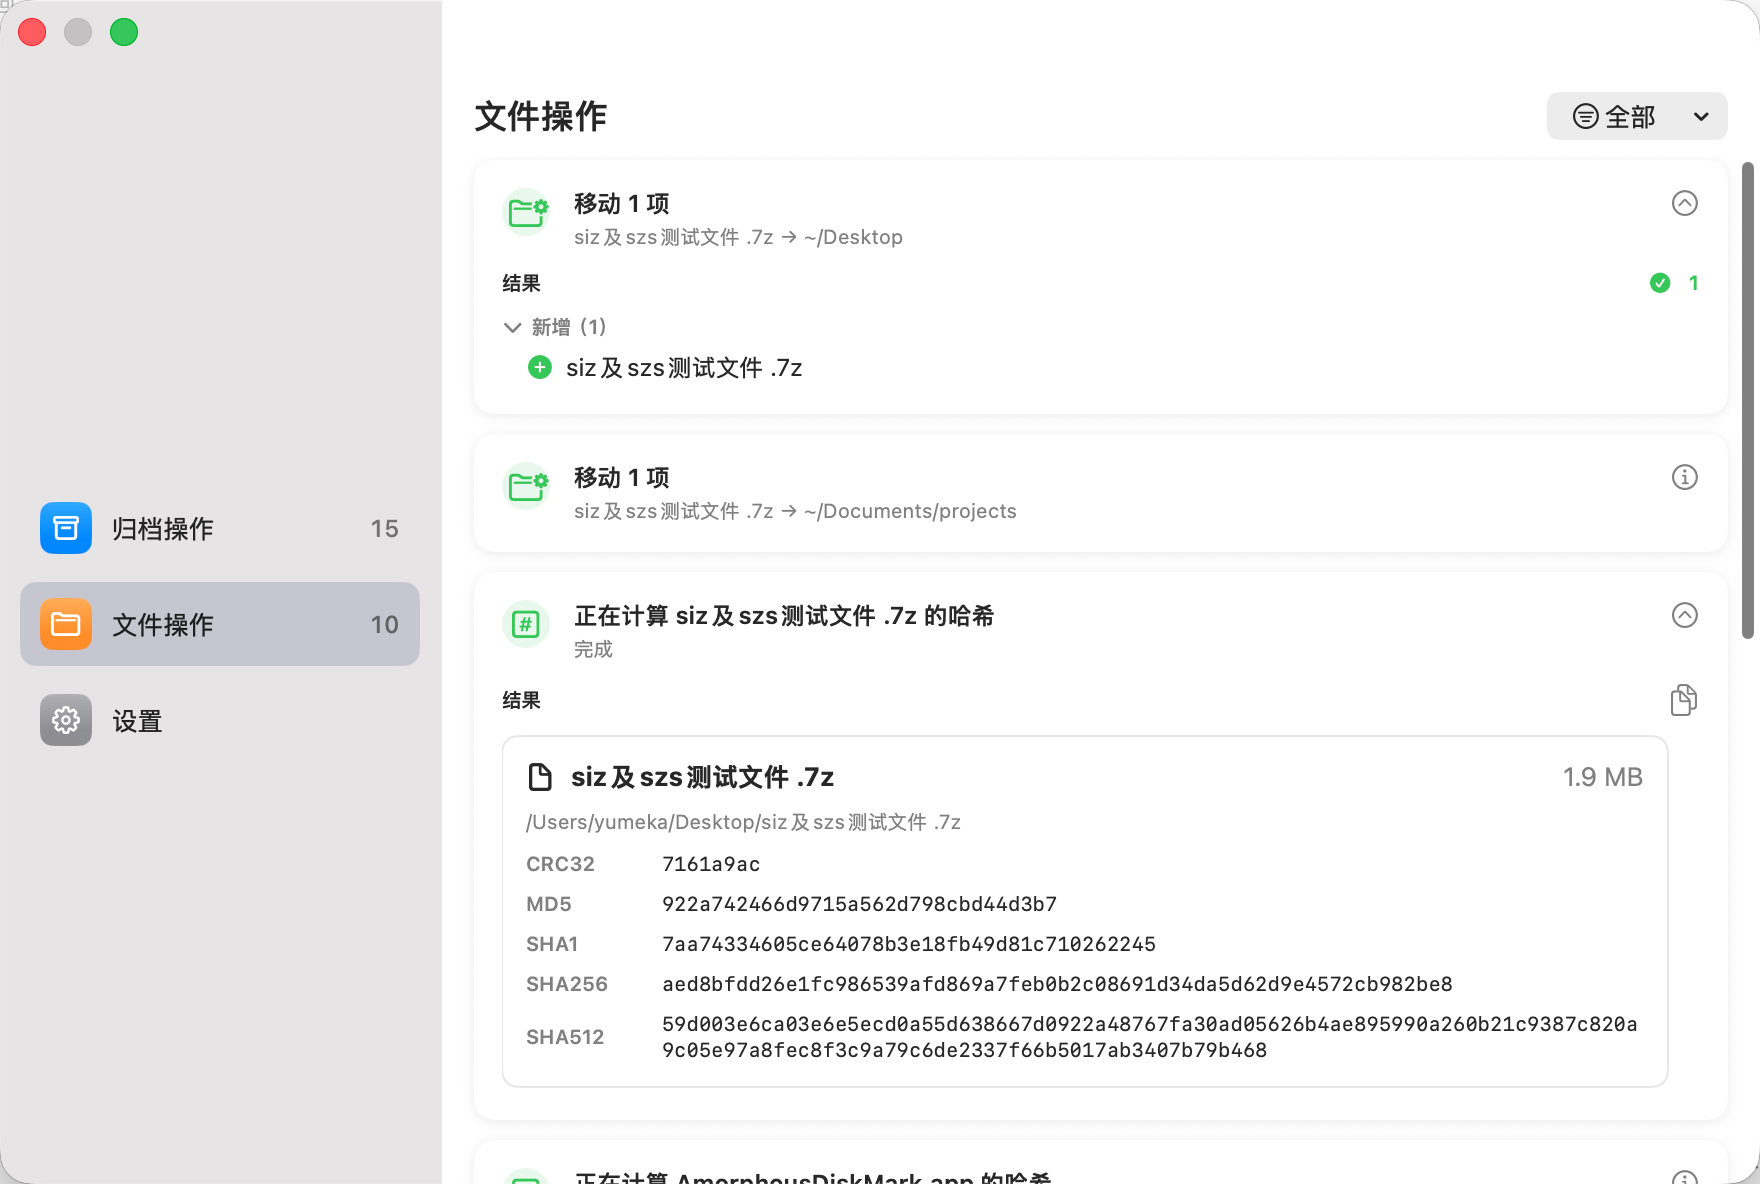
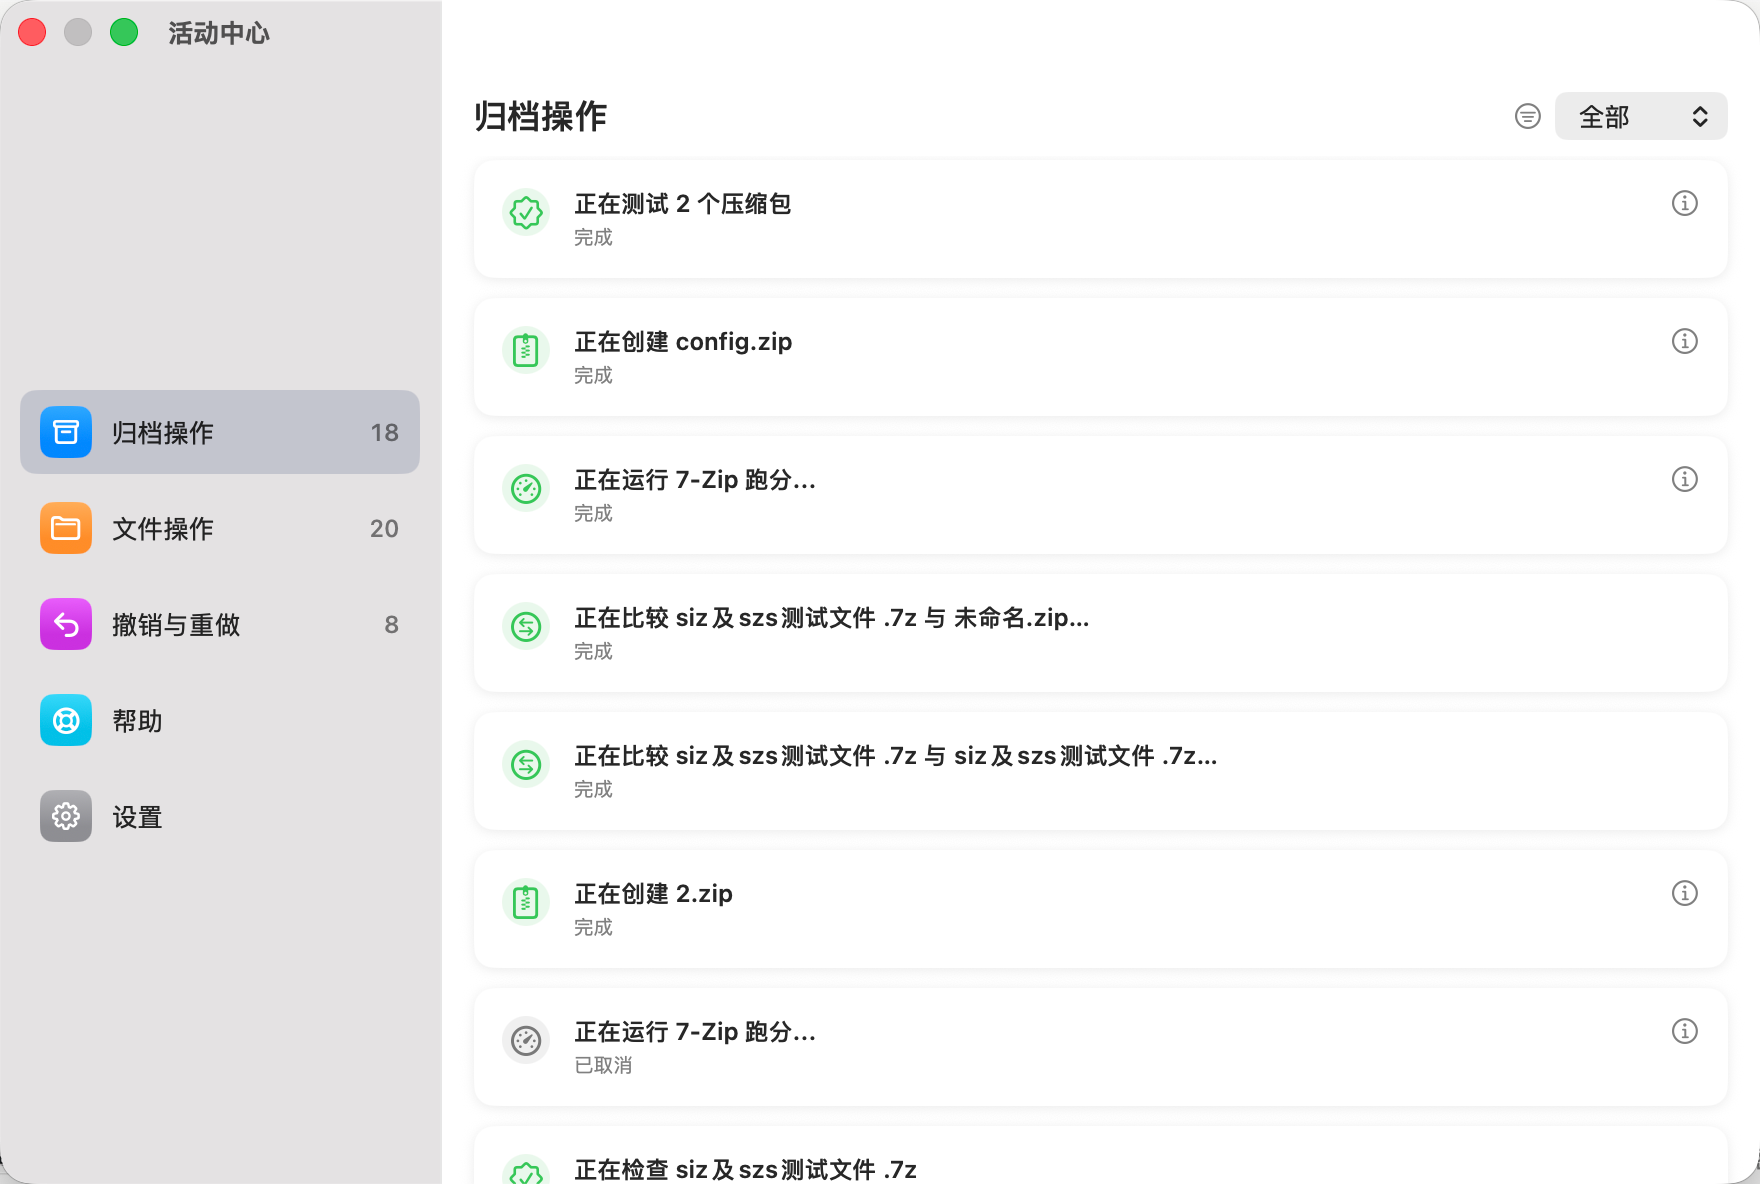
feat: unified write-capability gate explains read-only archives (0.4.3 #13)
New ArchiveWriteRestriction (Core) gives the reason an archive can't be
modified: read-only format, temporary extracted .siz/.szs/.gpg copy,
nested archive, or missing backend. supportsEntryUpdate now derives from
it (single source of truth); ArchiveBrowserModel.archiveWriteRestriction
is the explained twin of canDropIntoOpenArchive. The status bar shows a
Read-Only capsule with the full reason as its tooltip whenever the open
archive isn't writable, and the blank-area context menu shows a disabled
"Archive Comment (ZIP Only)" item on writable non-ZIP archives instead
of hiding the entry wordlessly. Behavior of the gates is unchanged.
+1 core test (restriction reasons, case-insensitive extensions).

diff --git a/SimpleZip/Core/ArchiveEntryUpdate.swift b/SimpleZip/Core/ArchiveEntryUpdate.swift
@@ -11,6 +11,19 @@
 
 import Foundation
 
+/// 写操作不可用的统一原因(0.4.3 #13 可写能力边界门控)——
+/// 所有写入口(拖入/重命名/删除/清垃圾/注释/新建)共享同一份解释,不再「为什么这能那不能」。
+public enum ArchiveWriteRestriction: Equatable, Sendable {
+    /// 7-Zip 后端不可用,任何归档都改不了。
+    case backendUnavailable
+    /// 只读格式(7zz 不能写:tar 系 / rar / dmg / xip / gpg 容器 / 单文件压缩等)。
+    case readOnlyFormat(fileExtension: String)
+    /// 当前浏览的是 .siz/.szs/.gpg 解出来的临时副本——改写不会落回原容器,还会破坏签名/加密。
+    case temporaryExtractedCopy
+    /// 嵌套归档(包中包)以只读临时副本打开。
+    case nestedArchive
+}
+
 /// 要加入 / 替换进归档的一个条目:磁盘上的真实文件 + 它在归档内的目标相对路径。
 public struct ArchiveEntryAddition: Hashable {
     /// 磁盘上的源文件(拖入的文件 / 加密临时卷里编辑过的副本)。
@@ -58,12 +71,18 @@ extension ArchiveService {
     /// 一个归档是否可被 SimpleZip 安全地「加 / 替换条目」—— 仅 **zip / 7z**(7zz 可写)且 7zz 可用。
     /// TAR 系 / DMG / RAR(7zz 不可写)/ GPG 容器 都不开放(返回 false),调用方据此决定是否给「拖入 / 写回」入口。
     public static func supportsEntryUpdate(_ archiveURL: URL) -> Bool {
-        guard SevenZipBackend.isAvailable() else { return false }
-        switch archiveURL.pathExtension.lowercased() {
+        entryUpdateRestriction(forExtension: archiveURL.pathExtension) == nil
+    }
+
+    /// `supportsEntryUpdate` 的**解释版**(0.4.3 #13 可写能力统一门控):不可写时返回具体原因,
+    /// 所有写入口共享这一份解释,不再各自静默隐藏。可写返回 nil。
+    public static func entryUpdateRestriction(forExtension fileExtension: String) -> ArchiveWriteRestriction? {
+        guard SevenZipBackend.isAvailable() else { return .backendUnavailable }
+        switch fileExtension.lowercased() {
         case "zip", "7z":
-            return true
+            return nil
         default:
-            return false
+            return .readOnlyFormat(fileExtension: fileExtension.lowercased())
         }
     }
 

diff --git a/SimpleZip/Features/ArchiveBrowser/ArchiveBrowserModel/ArchiveBrowserModel+CreateExtract.swift b/SimpleZip/Features/ArchiveBrowser/ArchiveBrowserModel/ArchiveBrowserModel+CreateExtract.swift
@@ -478,15 +478,23 @@ extension ArchiveBrowserModel {
 
     // MARK: - 拖入文件加进打开的压缩包（#109，走活动中心 + 安全写回）
 
+    /// 0.4.3 #13:当前打开归档的**写入受限原因**(nil = 可写)。`canDropIntoOpenArchive` 的解释版——
+    /// 状态栏只读徽章、各写入口的说明共用这一份原因,统一回答「为什么这个包不能编辑」。
+    /// 非归档模式 / 归档文件已消失返回 nil(那是另一类问题,不属于能力门控)。
+    var archiveWriteRestriction: ArchiveWriteRestriction? {
+        guard case .archive(let url) = mode else { return nil }
+        if archiveDisplayOverride != nil { return .temporaryExtractedCopy }
+        if !nestedArchiveReturnStack.isEmpty { return .nestedArchive }
+        guard fileManager.fileExists(atPath: url.path) else { return nil }
+        return ArchiveService.entryUpdateRestriction(forExtension: url.pathExtension)
+    }
+
     /// 当前是否允许把外部文件拖进打开的压缩包：必须是**真实顶层** zip/7z（非嵌套 / 非 `.siz`·`.gpg` 解出来的临时包），
-    /// 否则写回 `/tmp` 临时包毫无意义、还可能误导。`archiveDisplayOverride != nil` 即代表当前看的是临时/虚拟链 → 不允许。
+    /// 否则写回 `/tmp` 临时包毫无意义、还可能误导。判定收敛到 `archiveWriteRestriction`(#13 单一来源)。
     var canDropIntoOpenArchive: Bool {
         guard case .archive(let url) = mode,
-              archiveDisplayOverride == nil,
-              nestedArchiveReturnStack.isEmpty,
-              fileManager.fileExists(atPath: url.path),
-              ArchiveService.supportsEntryUpdate(url) else { return false }
-        return true
+              fileManager.fileExists(atPath: url.path) else { return false }
+        return archiveWriteRestriction == nil
     }
 
     // MARK: - 归档级注释编辑（0.4.2，仅 zip —— EOCD 原生改写）

diff --git a/SimpleZip/Features/ArchiveBrowser/StatusBar.swift b/SimpleZip/Features/ArchiveBrowser/StatusBar.swift
@@ -68,6 +68,16 @@ struct StatusBar: View {
                 }
                 .buttonStyle(.borderless)
             }
+            // 0.4.3 #13:打开的归档不可改写时,状态栏挂「只读」徽章,悬停给统一解释
+            // (只读格式 / 临时解包副本 / 嵌套归档 / 后端缺失)—— 写入口不再静默消失得不明不白。
+            if let restriction = model.archiveWriteRestriction {
+                Label(L10n.text("status.readOnly"), systemImage: "lock.fill")
+                    .foregroundStyle(.secondary)
+                    .padding(.horizontal, 7)
+                    .padding(.vertical, 2)
+                    .background(Capsule().fill(Color.primary.opacity(0.08)))
+                    .help(Self.restrictionExplanation(restriction))
+            }
             Text(L10n.text("status.backend"))
                 .foregroundStyle(.secondary)
         }
@@ -76,6 +86,20 @@ struct StatusBar: View {
         .padding(.vertical, 7)
         // 跟地址栏同一 .bar 材质 —— 上下两条工具条一个质感（0.3.3 UI 现代化）。
         .background(.bar)
+    }
+
+    /// 写入受限原因 → 用户可读解释(#13 统一文案,en+zh)。
+    static func restrictionExplanation(_ restriction: ArchiveWriteRestriction) -> String {
+        switch restriction {
+        case .backendUnavailable:
+            return L10n.text("writeGate.backendUnavailable")
+        case .readOnlyFormat(let fileExtension):
+            return L10n.format("writeGate.readOnlyFormat", fileExtension)
+        case .temporaryExtractedCopy:
+            return L10n.text("writeGate.temporaryCopy")
+        case .nestedArchive:
+            return L10n.text("writeGate.nestedArchive")
+        }
     }
 
     private var legacyProgressView: some View {

diff --git a/Tests/SimpleZipCoreTests/ArchiveEntryUpdateTests.swift b/Tests/SimpleZipCoreTests/ArchiveEntryUpdateTests.swift
@@ -222,6 +222,18 @@ struct ArchiveEntryUpdateTests {
         #expect(!ArchiveService.supportsEntryUpdate(URL(fileURLWithPath: "/tmp/a.tar.gz")))
         #expect(!ArchiveService.supportsEntryUpdate(URL(fileURLWithPath: "/tmp/a.rar")))
     }
+
+    /// 0.4.3 #13:supportsEntryUpdate 的解释版 —— 可写格式返回 nil,只读格式给出带扩展名的具体原因
+    /// (大小写归一)。后端缺失分支(backendUnavailable)无法在装有 7zz 的测试环境里直接构造,不在此覆盖。
+    @Test func entryUpdateRestrictionExplainsReadOnlyFormats() {
+        #expect(ArchiveService.entryUpdateRestriction(forExtension: "zip") == nil)
+        #expect(ArchiveService.entryUpdateRestriction(forExtension: "7z") == nil)
+        #expect(ArchiveService.entryUpdateRestriction(forExtension: "ZIP") == nil)
+        #expect(ArchiveService.entryUpdateRestriction(forExtension: "rar") == .readOnlyFormat(fileExtension: "rar"))
+        #expect(ArchiveService.entryUpdateRestriction(forExtension: "TAR") == .readOnlyFormat(fileExtension: "tar"))
+        #expect(ArchiveService.entryUpdateRestriction(forExtension: "dmg") == .readOnlyFormat(fileExtension: "dmg"))
+        #expect(ArchiveService.entryUpdateRestriction(forExtension: "siz") == .readOnlyFormat(fileExtension: "siz"))
+    }
 }
 
 /// 0.4.2 #11:批量重命名计划引擎(纯名字变换)。

diff --git a/SimpleZip/Features/ArchiveBrowser/ArchiveTable.swift b/SimpleZip/Features/ArchiveBrowser/ArchiveTable.swift
@@ -504,6 +504,11 @@ private struct ArchiveNSOutlineView: NSViewRepresentable {
             // 0.4.2：zip 归档级注释编辑（EOCD 原生改写）。没有注释时这是唯一的「添加注释」入口。
             if model.canEditArchiveComment {
                 menu.addItem(menuItem(L10n.text("archive.comment.menu"), systemImage: "text.bubble", action: #selector(editArchiveComment)))
+            } else if model.canDropIntoOpenArchive {
+                // 0.4.3 #13:可写包但非 zip —— 显式解释「注释仅 ZIP 支持」,不再静默消失留人疑惑。
+                let unavailable = NSMenuItem(title: L10n.text("archive.comment.zipOnly.menu"), action: nil, keyEquivalent: "")
+                unavailable.isEnabled = false
+                menu.addItem(unavailable)
             }
             // 0.4.2 #24：包内重复文件检测（只读分析，任何归档都可用）。
             menu.addItem(menuItem(L10n.text("duplicates.menu"), systemImage: "doc.on.doc", action: #selector(findDuplicateFiles)))

diff --git a/CHANGELOG.md b/CHANGELOG.md
@@ -4,6 +4,7 @@
 
 ## 0.4.3 (unreleased)
 
+- **New: a unified explanation for why an archive can't be edited.** Write entry points used to vanish silently — now one capability gate answers "why can this archive do that but not this": when the open archive isn't writable, the status bar shows a Read-Only badge whose tooltip spells out the exact reason (read-only format like tar/rar/dmg with a convert-to-ZIP/7z hint, a temporary extracted `.siz`/`.szs`/`.gpg` copy where edits would break the signature, a nested archive opened as a read-only copy, or a missing 7-Zip backend). The blank-area context menu also stops hiding Archive Comment wordlessly on writable non-ZIP archives — it shows a disabled "Archive Comment (ZIP Only)" entry instead. All write gates now flow from a single source of truth in Core, with the existing behavior unchanged.
 - **UI: icon tiles get exact glyph centering; dialog drawers get the second-level indent.** Every colored icon tile outside Settings (dialog heroes, drawer tiles, sidebar rows, the floating auto-extract window, the hash-results header, the conflict warning, the `.siz`/`.szs` signature seals) now centers its symbol with the shape-plus-overlay structure, so wide glyphs no longer sit visibly off-center. Dialog drawer contents pick up the same second-level indent as the settings drawers. Color rules stay as designed: window-level tiles keep their gradients; desaturation remains exclusive to the content side of sidebar windows.
 - **UI: every dialog and panel in the app adopts the new design language.** The full sweep beyond Settings: split, convert, batch rename, permissions editor, comment editor, GPG encrypt, create-SZS, conflict dialogs, the report sheets (hash, diff, security, duplicates, release inspection), both signature sheets, the benchmark and RAR-install sheets, the Activity Center (tinted settings rows, a native filter popup instead of a menu-button), the floating auto-extract/auto-create windows, the status bar and the remaining welcome-assistant pages. Concretely: every selectable option visible without opening a drawer wears a colored tile (full saturation in dialogs — desaturation stays exclusive to sidebar windows); non-selectable info rows stay deliberately low-key; checkboxes never sit left of their text; every button carries a monochrome outline icon, with Cancel uniformly ✕ and main actions echoing each dialog's hero symbol; text inputs get a visible border on white cards.
 - **UI: the create and extract dialogs join the colored-tile design.** First-level form rows (File Name, Save To, Format, Compression Level, Password, Confirm Password, Encryption/Decryption Method) trade their small monochrome icons for the same flat colored tiles as Settings rows — at full saturation, since these dialogs have no sidebar — while informational rows like the preflight summary intentionally stay monochrome. The footer buttons gain icons too: Cancel wears an ✕ everywhere, and the main action echoes the dialog's hero symbol (Create, Extract).

diff --git a/CHANGELOG.zh-CN.md b/CHANGELOG.zh-CN.md
@@ -4,6 +4,7 @@
 
 ## 0.4.3 (unreleased)
 
+- **新增：「为什么这个包不能编辑」有了统一解释。** 过去写操作入口只是静默消失——现在一个能力门控统一回答「为什么这能那不能」：打开的归档不可改写时，状态栏出现「只读」徽章，悬停给出确切原因（tar/rar/dmg 等只读格式并提示可转换为 ZIP/7z 编辑、`.siz`/`.szs`/`.gpg` 解出的临时副本改写会破坏签名、嵌套归档以只读副本打开、7-Zip 后端缺失）。空白处右键菜单在「可写但非 ZIP」的归档上也不再无声隐藏注释入口——改为显示禁用的「归档注释（仅 ZIP 支持）」。所有写入口的判定收敛到 Core 的单一事实来源，现有行为不变。
 - **UI：图标瓦片获得精确居中,对话框抽屉获得二级缩进。** 设置之外的所有彩色图标瓦片（对话框 hero、抽屉瓦片、侧栏行、自动解压浮窗、哈希结果页头、冲突警告、`.siz`/`.szs` 验签大印章）改用 shape+overlay 结构居中符号,宽字形不再看着歪;对话框抽屉内容跟设置区抽屉一样获得二级缩进。配色规则维持设计原样：窗口层瓦片保留渐变,降饱和仍只属于带侧栏窗口的内容区。
 - **UI：全 app 的对话框与面板全部换上新设计语言。** 设置区之外的完整扫荡：拆分、转换格式、批量重命名、权限编辑器、注释编辑器、GPG 加密、创建签名清单、冲突对话框、各报告页（哈希/比较/安全报告/重复文件/发布检查）、两个验签 sheet、基准测试与 RAR 安装 sheet、活动中心（设置行上色、过滤器换原生弹出菜单）、自动解压/创建浮窗、状态栏、欢迎助手剩余页。具体规则：不点开抽屉就能看到的可选项一律彩色瓦片（对话框全饱和——降饱和只属于带侧栏窗口）；不可选择的信息行保持低调；复选框一律不放文字左边；每个按钮都带单色描线图标,取消统一 ✕、主操作呼应各自 hero 符号；白卡上的输入框获得清晰描边。
 - **UI：创建与解压对话框加入彩色瓦片设计。** 卡片内的一级表单行（文件名、保存到、格式、压缩率、密码、确认密码、加密/解密方式）把小号单色图标换成与设置区同款的纯色瓦片——这两个对话框没有侧栏,所以保持全饱和;预检概要那类信息行有意保持单色。底栏按钮也补上图标：取消统一 ✕,主操作呼应各自对话框的 hero 符号（创建、解压）。
